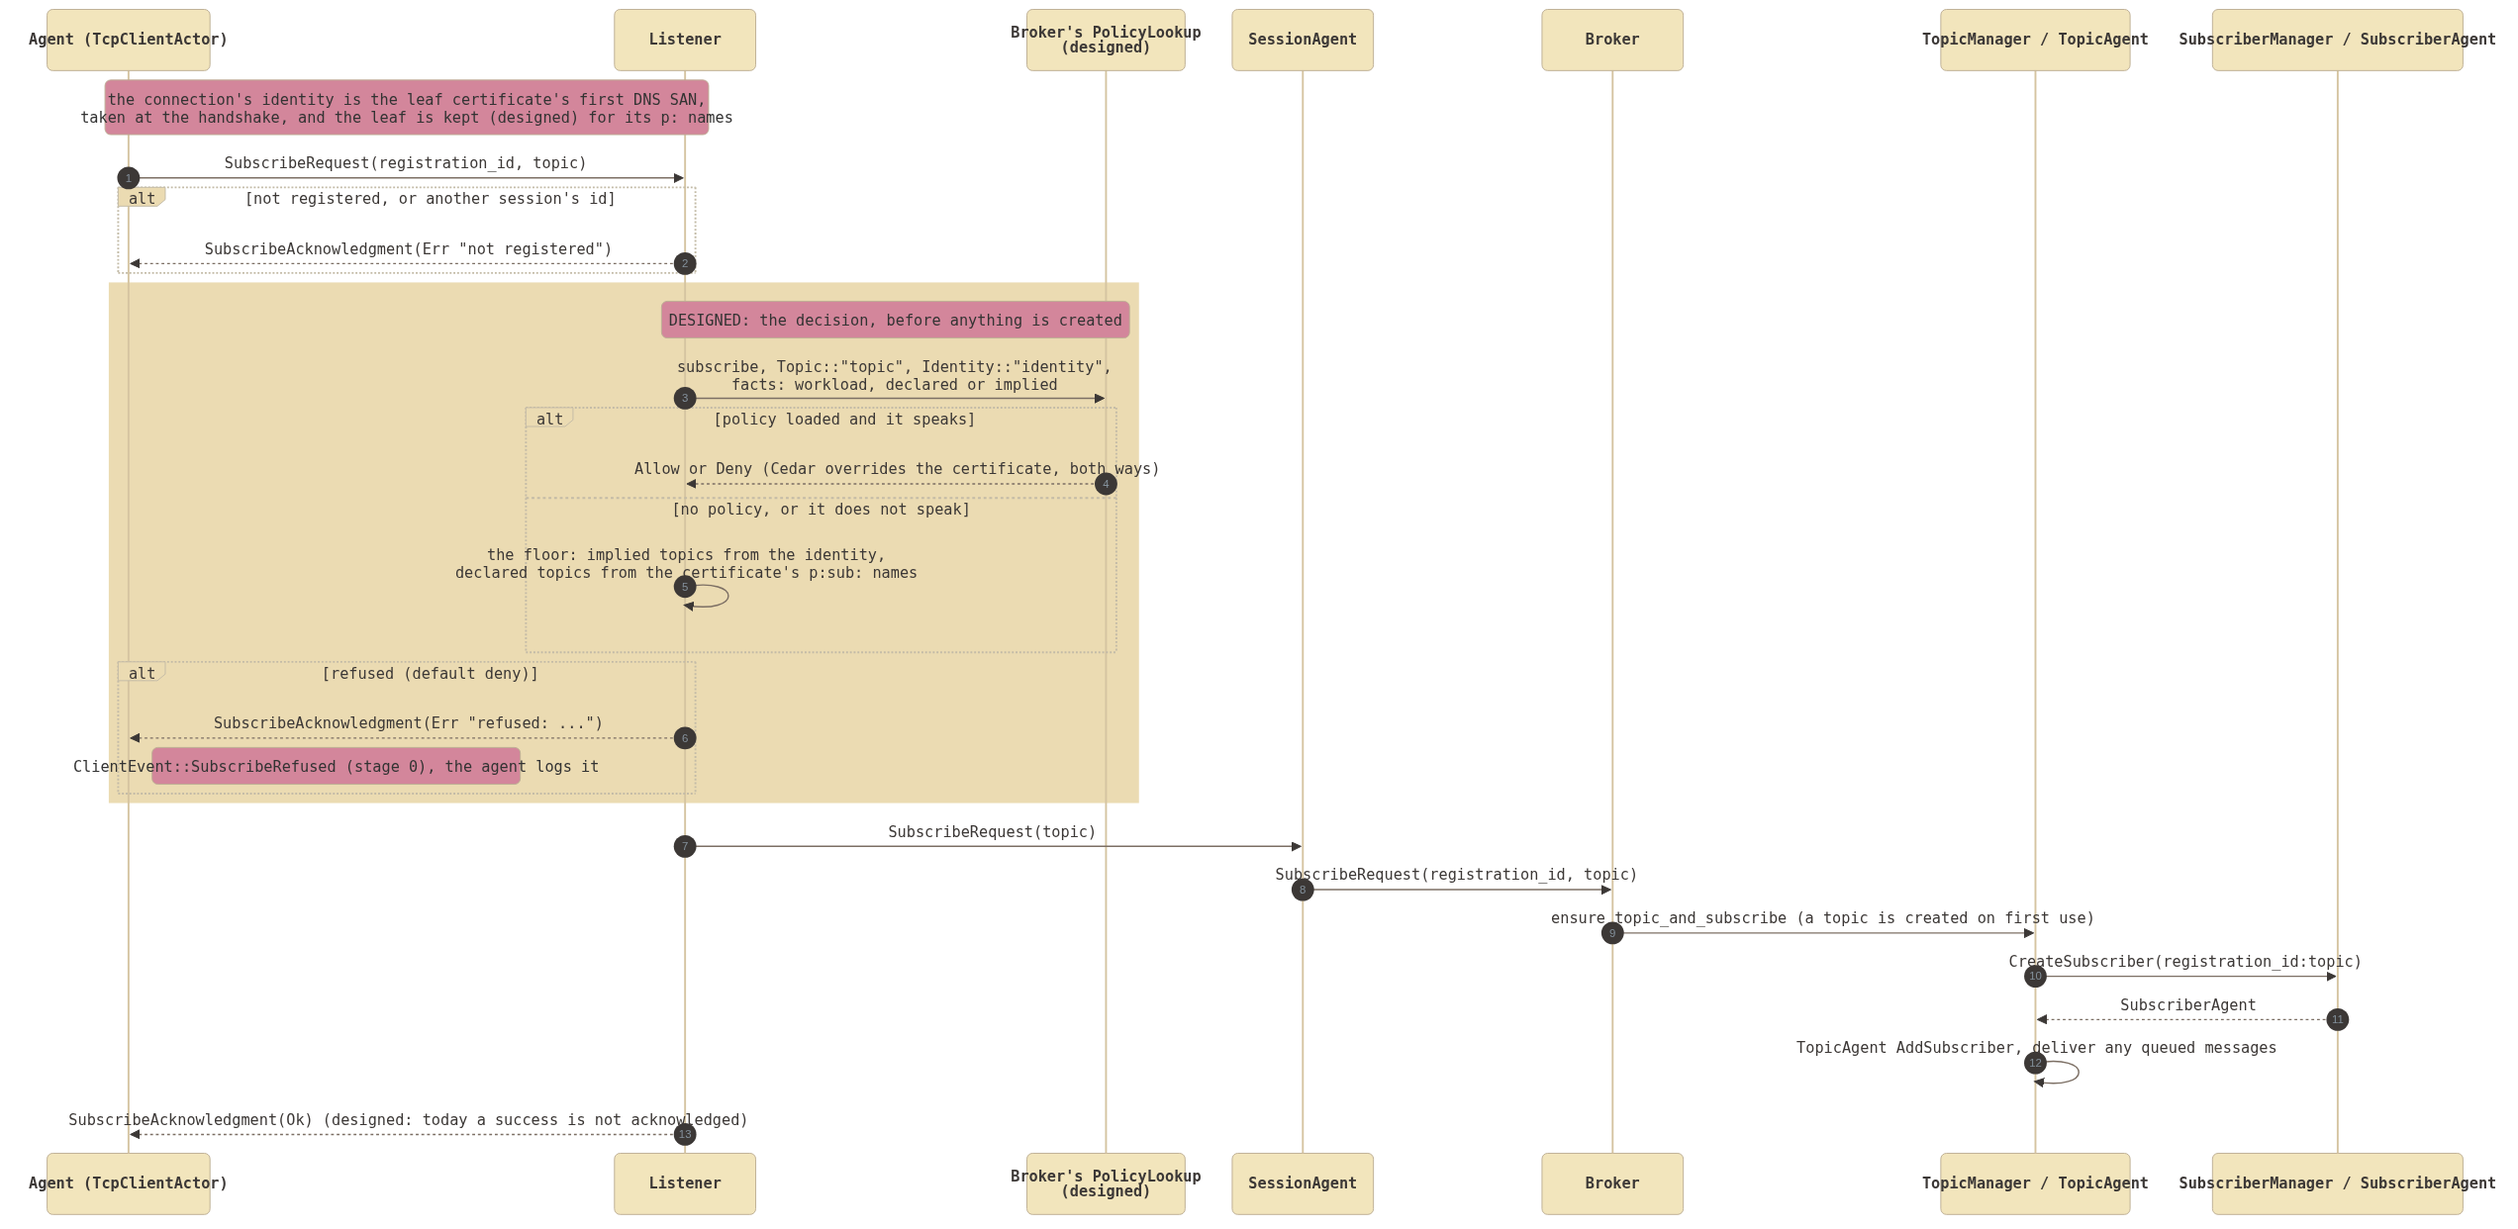
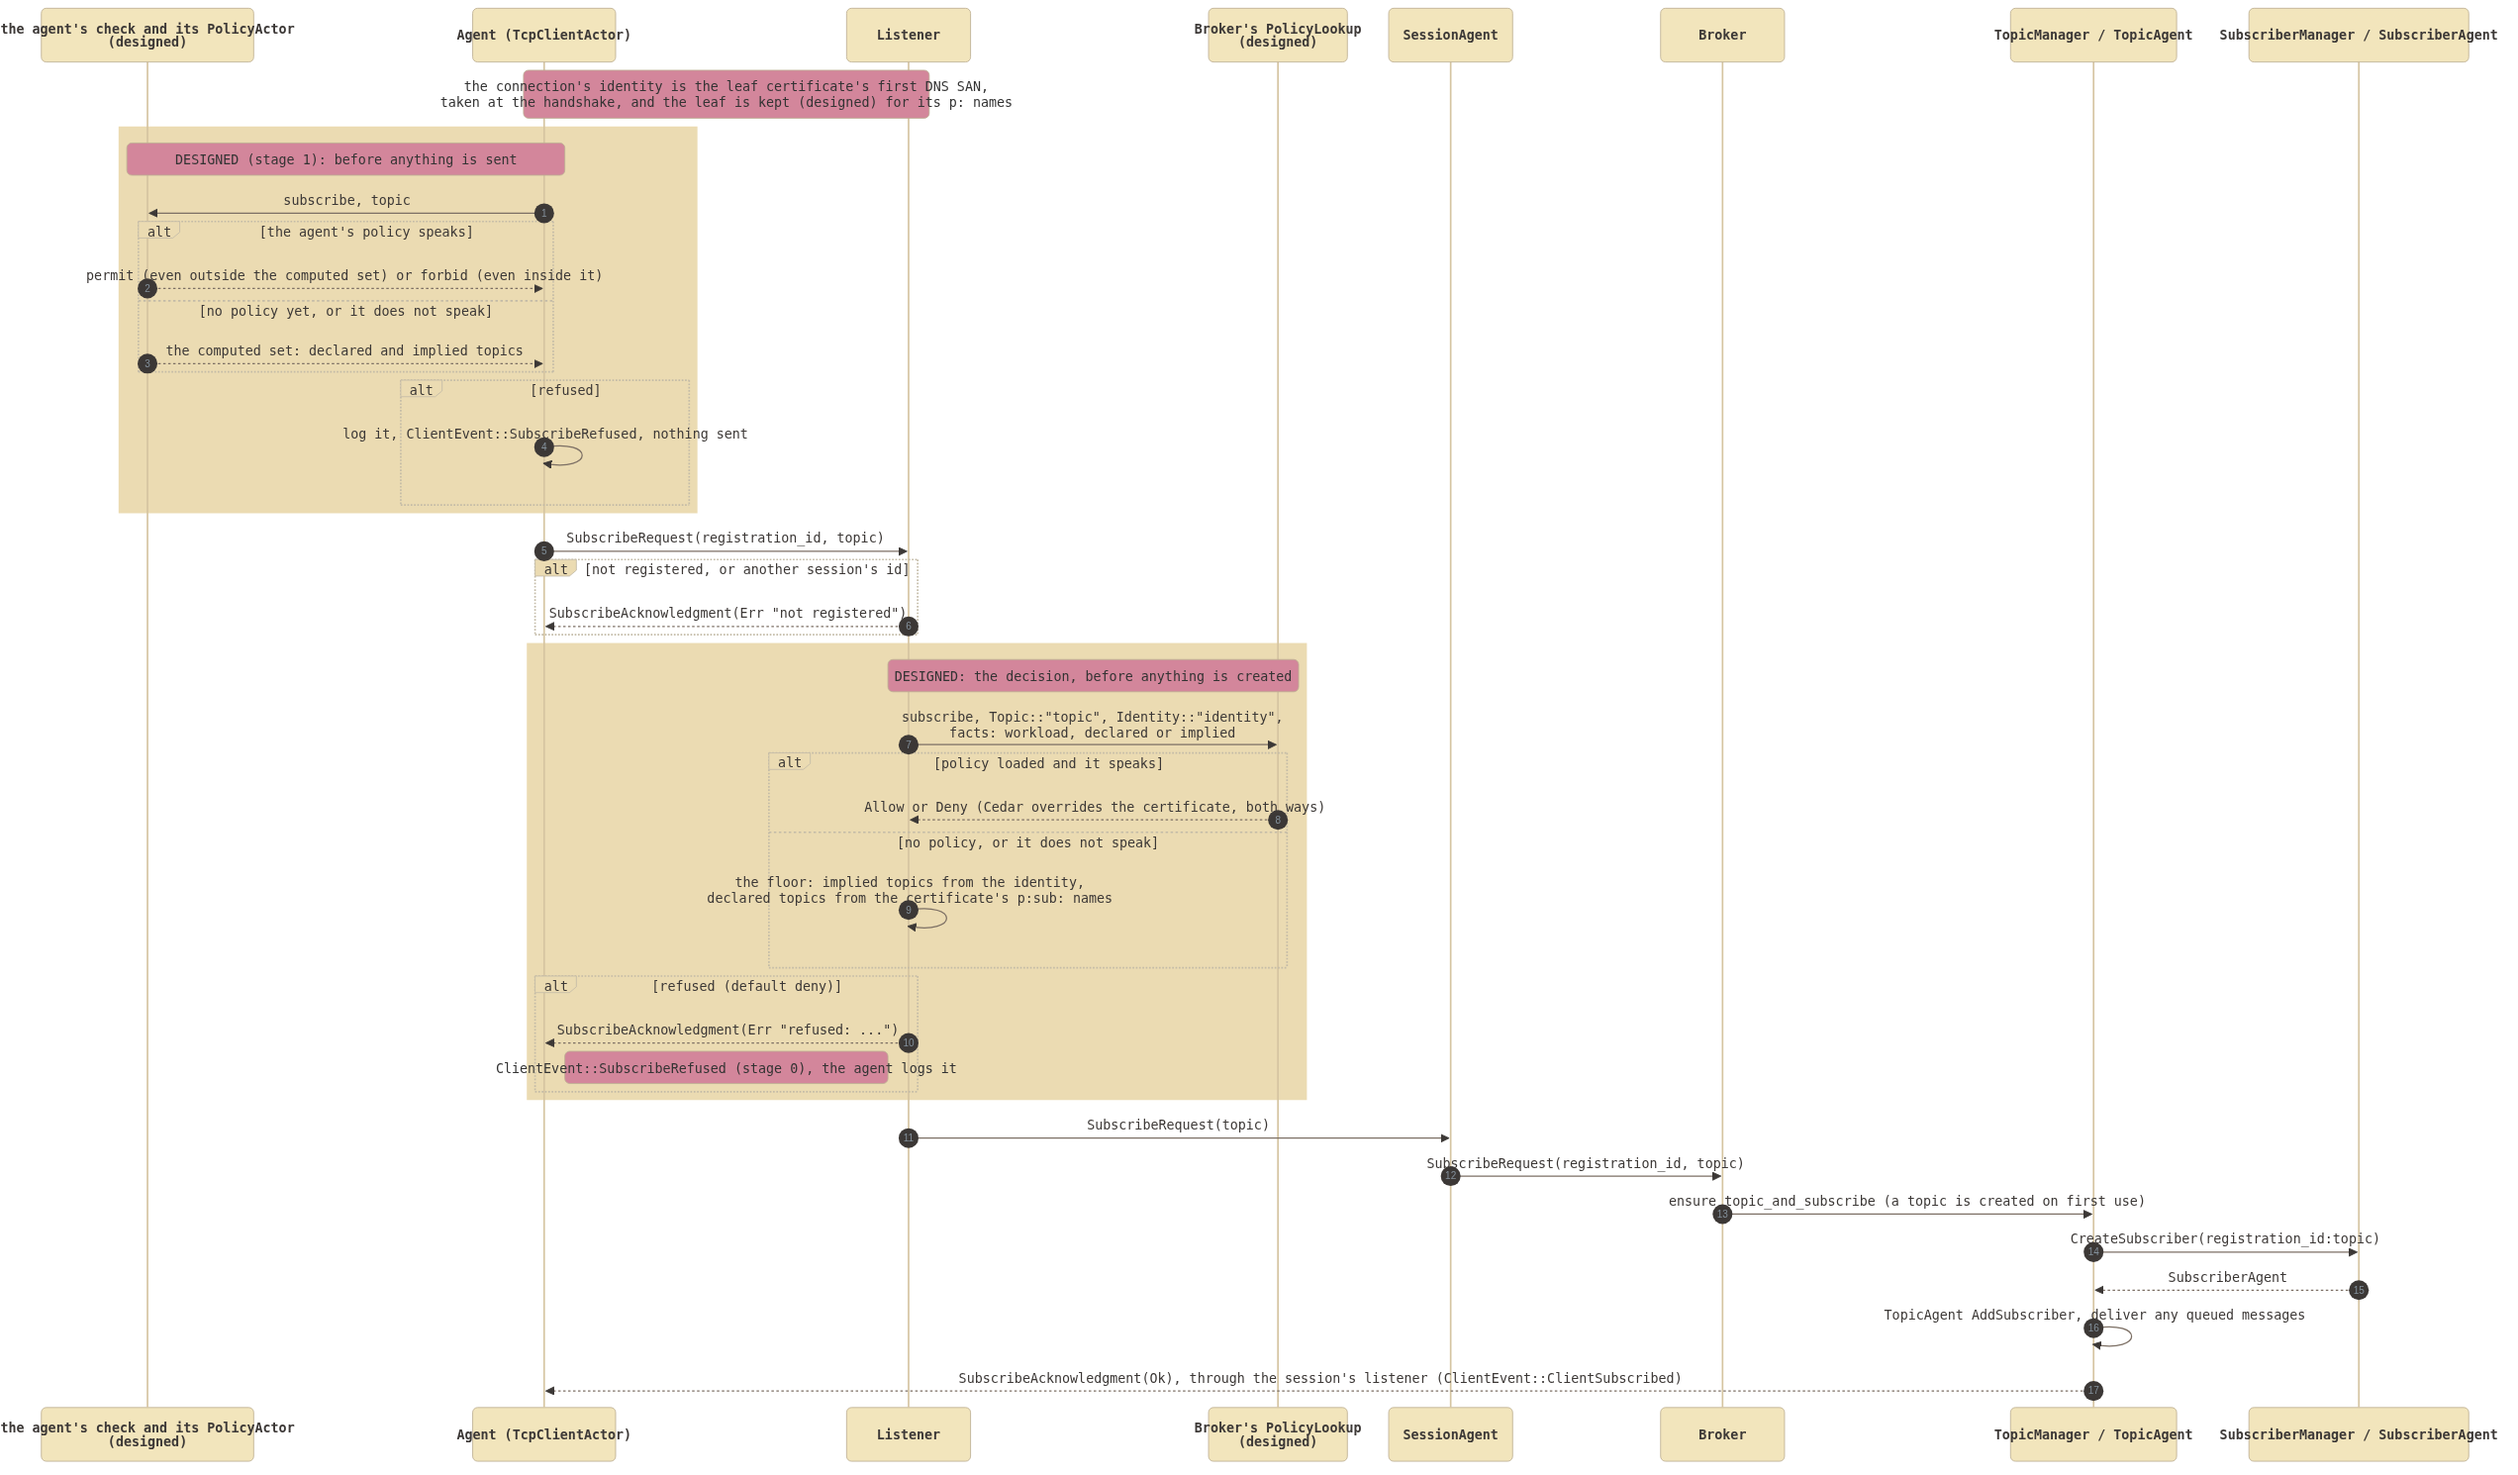
docs(policy): the agent's own client decides as the broker does, Cedar first
Decided: before a publish or a subscribe leaves an agent, the builder's check
asks the agent's PolicyActor. A permit admits a topic outside the computed set
(an administrator's runtime addition, such as a workload the scheduler now
serves, takes effect without a restart), a forbid refuses one inside it, and
where no policy speaks, or there is none yet, the computed set decides. The
builder hands the check to the Cassini client as a function, so cassini-client
does not depend on polar-policy; a refusal is logged and reported as
PublishRefused or SubscribeRefused, and nothing is sent. It is the broker's rule
(stage 5), applied in the agent. Recorded in policy-enforcement.md ("Decisions",
and stage 1), with what was true before: the client consulted no policy at all.

The publish and subscription sequences show the agent's check (designed), and
the subscription's success acknowledgment as built in stage 0. The three PNGs,
and policy_update_enforcement.png from e53336c6, are rendered with the
repository's theme and size (assets/mermaid-config.json, gruvbox_sequence.css,
2560x1440); that one had been rendered without them.

diff --git a/docs/architecture/policy-enforcement.md b/docs/architecture/policy-enforcement.md
@@ -84,6 +84,17 @@ code today, and what stands between the two. The detail of each part is in the d
   declared and implied topics for every agent.** The way to hold that: the set is computed once, in the agent (the
   builder), and printed in full in its scaffold, each implied topic with the rule that implied it; nothing else
   recomputes it, and the builder refuses at run time to publish or subscribe outside it.
+- **The agent's own client decides as the broker does: Cedar first, then the set (2026-10-21).** Before a publish or a
+  subscribe leaves the agent, the builder's check asks the agent's PolicyActor; a `permit` admits a topic outside the
+  computed set (an administrator's runtime addition, such as a workload the scheduler now serves, takes effect without a
+  restart), a `forbid` refuses one inside it, and where no policy speaks the computed set decides. With no policy yet
+  (before the first snapshot) the set decides. The check is a function the builder hands the Cassini client, so
+  `cassini-client` does not depend on `polar-policy`; a refusal is logged in the agent and reported as
+  `PublishRefused` or `SubscribeRefused`, and nothing is sent. It is the same rule the broker applies (stage 5), so an
+  agent never sends what the broker would refuse for policy, and never refuses what policy permits. Until 2026-10-21
+  the client consulted no policy at all (its `connect.rs` "Policy" is the connection retry setting); the PolicyActor
+  was asked only for signed documents (`configuration.rs:261`), commands (`command_actor.rs:215`) and the credentials
+  agent's requests.
 - **Topics are exact names (2026-10-21).** No patterns. An agent that serves a family of topics (the scheduler, which
   publishes `agent.<workload>.configuration` for every workload) has its list generated from the catalog, one exact name
   per workload, so policy and the broker deal only in exact strings.
@@ -210,7 +221,11 @@ stage relies on a later one; each leaves the cluster working, with enforcement s
 - The builder computes the agent's full set: declared, plus implied, each implied topic with the rule that implied it.
   The rules are written in `topics.md` ("Implied topics"), and are code in one place in `polar-agent-builder`.
 - `--scaffold` prints the full set; `resolve.nu`, the catalog and `polar-sign` read it and never recompute it.
-- The builder refuses, at run time, to publish or subscribe outside the set (an error in the agent's own log).
+- The builder refuses, at run time, to publish or subscribe outside the set (an error in the agent's own log), asking
+  the agent's PolicyActor first: a `permit` admits beyond the set, a `forbid` refuses within it, the set decides where
+  policy is silent or there is no policy yet ("Decisions"). The client is given the check as a function. Cedar's
+  vocabulary for topics is stage 4's, so until then no policy speaks about topics and the set decides; the check is
+  in place and asks.
 - Every agent declares what it uses today (`topics.md`'s inventory). Unused and mismatched topics are fixed or removed
   as they are met (the openapi pair's mismatch, the unused constants).
 - Tests: per agent, the scaffold's set equals what its code uses (a test that runs the agent's subscriptions and
